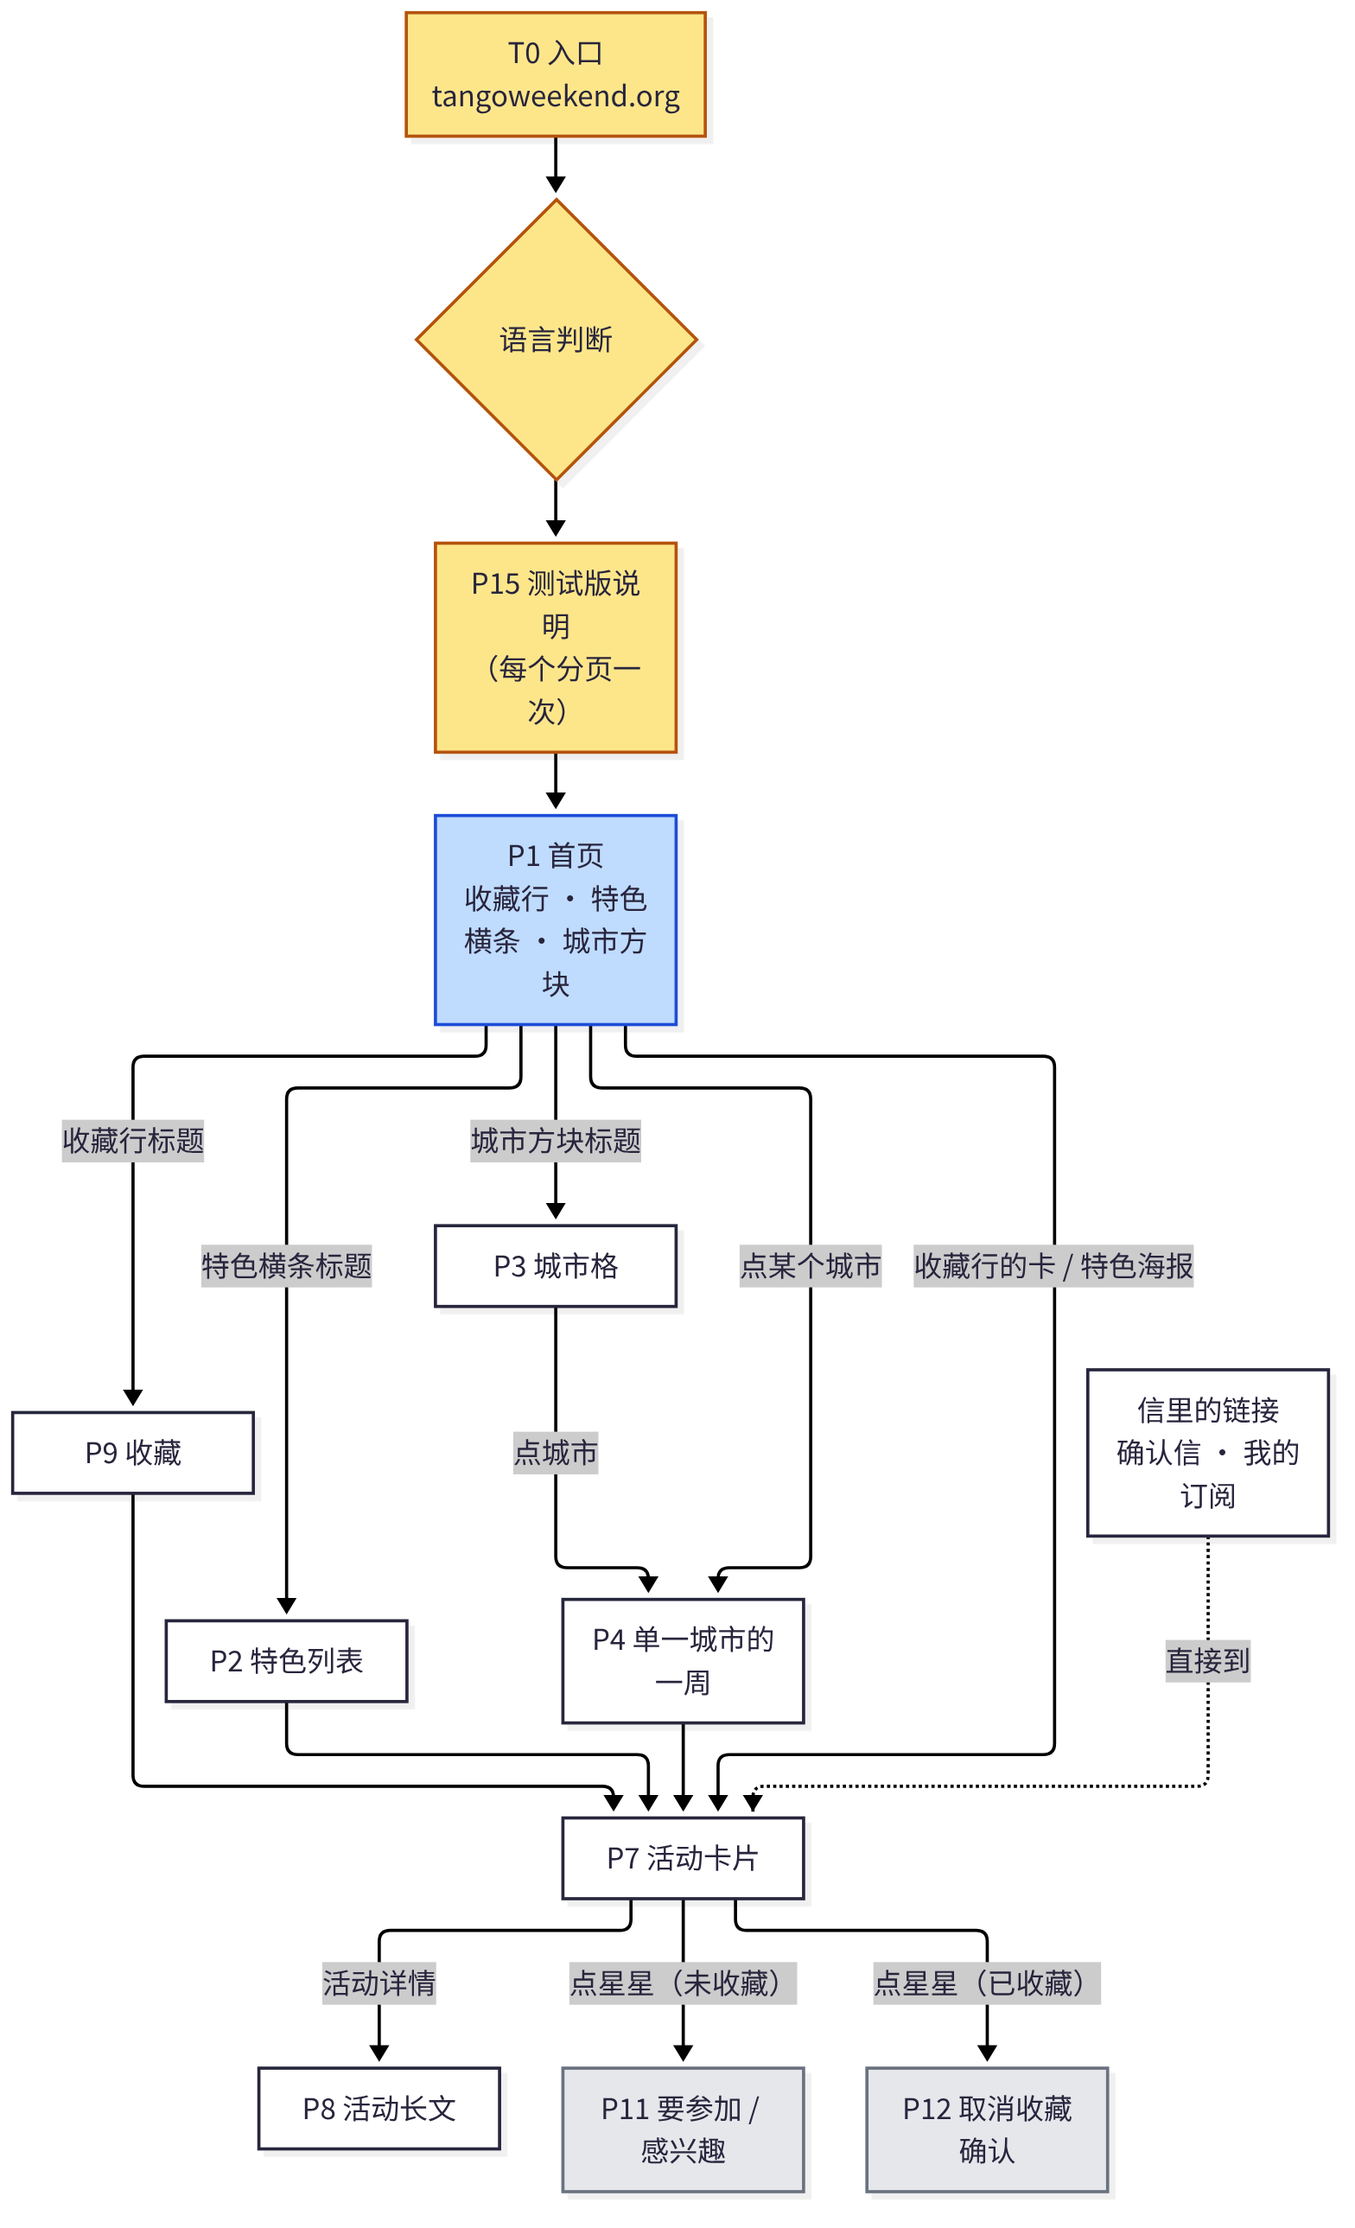
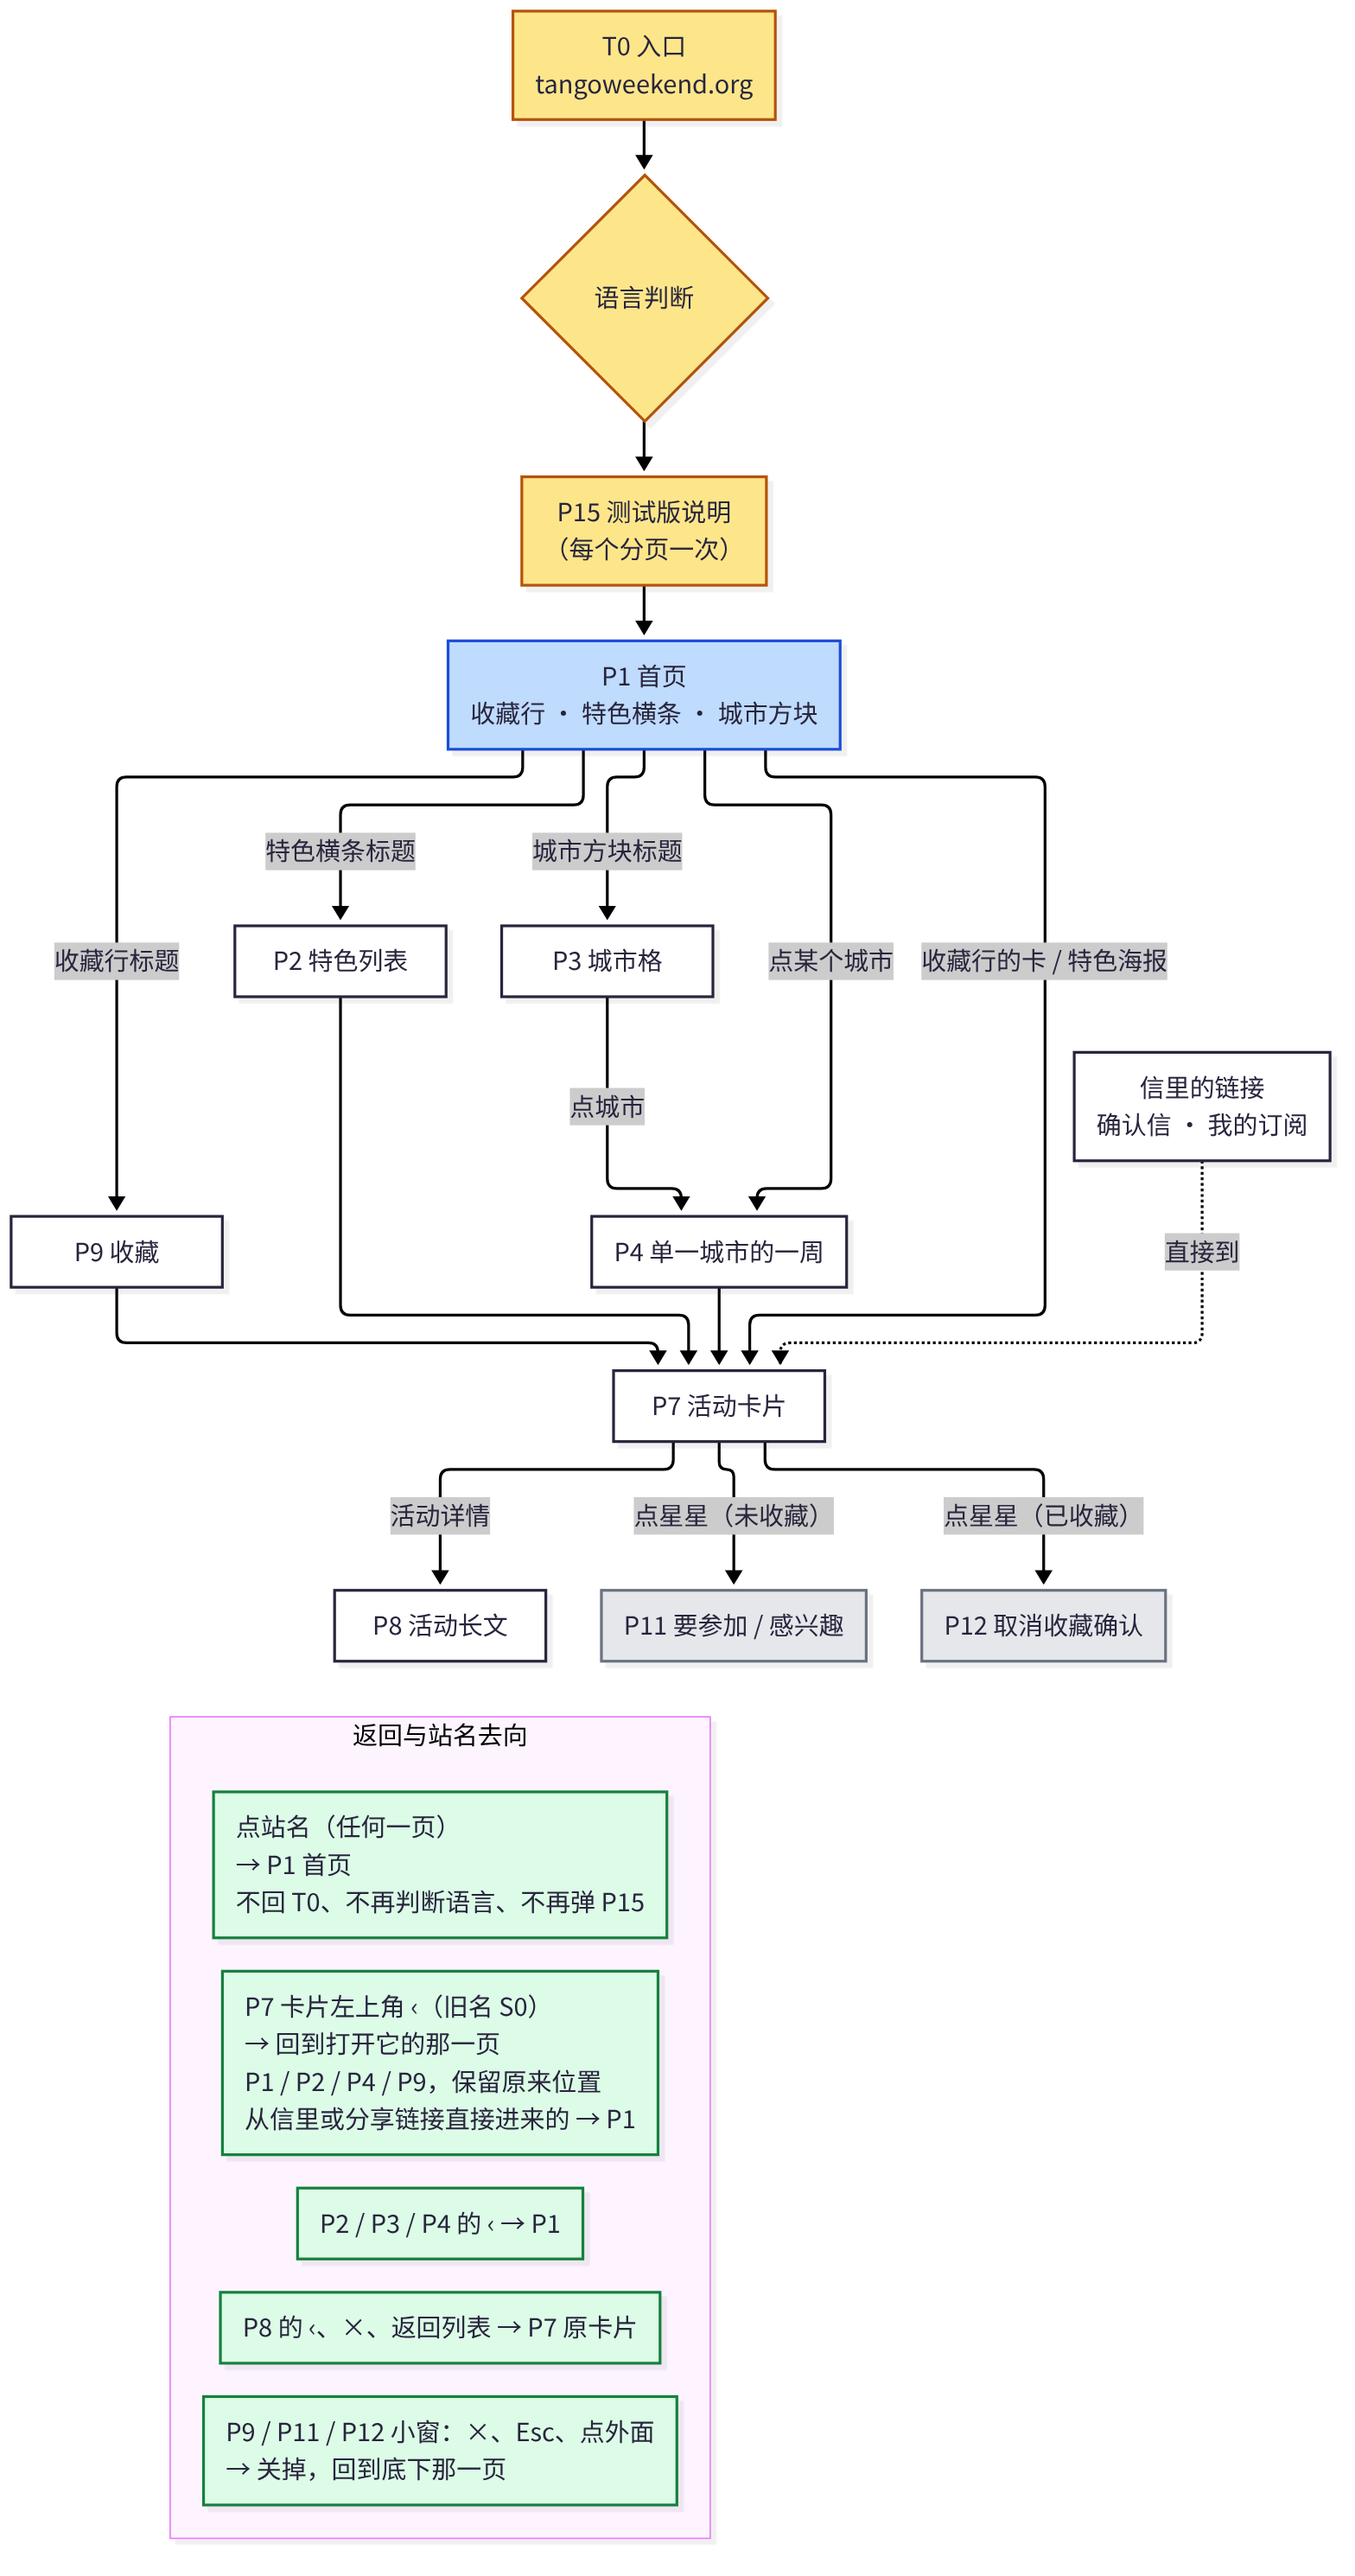
Show where the site title and the card back go.
The diagram and the return-rules section now include the site title, the old S0 control, and the sheet closes.

diff --git a/docs/atm-navigation-interaction-spec.md b/docs/atm-navigation-interaction-spec.md
@@ -184,15 +184,32 @@ flowchart TB
   P7 -->|点星星（未收藏）| P11["P11 要参加 / 感兴趣"]
   P7 -->|点星星（已收藏）| P12["P12 取消收藏确认"]
   M["信里的链接<br/>确认信 · 我的订阅"] -.->|直接到| P7
+  subgraph B["返回与站名去向"]
+    direction TB
+    B1["点站名（任何一页）<br/>→ P1 首页<br/>不回 T0、不再判断语言、不再弹 P15"]
+    B2["P7 卡片左上角 ‹（旧名 S0）<br/>→ 回到打开它的那一页<br/>P1 / P2 / P4 / P9，保留原来位置<br/>从信里或分享链接直接进来的 → P1"]
+    B3["P2 / P3 / P4 的 ‹ → P1"]
+    B4["P8 的 ‹、×、返回列表 → P7 原卡片"]
+    B5["P9 / P11 / P12 小窗：×、Esc、点外面<br/>→ 关掉，回到底下那一页"]
+    B1 ~~~ B2 ~~~ B3 ~~~ B4 ~~~ B5
+  end
+  P8 ~~~ B
   classDef entry fill:#fde68a,stroke:#b45309;
   classDef home fill:#bfdbfe,stroke:#1d4ed8;
   classDef sheet fill:#e5e7eb,stroke:#6b7280;
-  class T0,L,N entry; class P1 home; class P11,P12 sheet;
+  classDef back fill:#dcfce7,stroke:#15803d,text-align:left;
+  class T0,L,N entry; class P1 home; class P11,P12 sheet; class B1,B2,B3,B4,B5 back;
 ```
 
 ### 返回规则
 
-Back and close, on the same screens. Each page returns one level, and the last step is P1.
+Each page returns one level, and the last step is P1. These are the target rules for the site title and the backs drawn in the diagram.
+
+- Tapping the site title on any page goes to P1. It does not return to T0, it does not choose a language again, and it does not show P15 again.
+- The P7 ‹, formerly called S0, returns to the screen that opened the card (P1, P2, P4, or P9) and keeps that screen’s scroll. A card opened directly from a letter or a shared link goes to P1 on the language map.
+- The ‹ on P2, P3, and P4 goes to P1.
+- On P8, the ‹, the ×, and 返回列表 / Back to list all return to that same P7 card.
+- The P9, P11, and P12 sheets close with ×, Esc, or the backdrop, and the screen underneath stays where it was.
 
 ```mermaid
 flowchart LR
@@ -212,7 +229,7 @@ P5’s forward path is the search hash. It is not one of the three blocks on P1.
 These are the target rules. Where today’s code differs, the next section says so.
 
 1. T0 chooses the language, then P15 once per tab, then P1. P1 is the empty hash on the language map. P2–P5 are hashes on that same document. P6 and P7 are query URLs, because those links are already shared. P8 is its own document. A deep link (`?card=`, a confirmation letter, 我的订阅) skips the home and opens its own screen, with P15 shown once on that tab if it has not been dismissed.
-2. ‹ and the browser Back move one step. P2, P3, P4, and P5 return to P1. P7 returns to the screen that opened it (P1, P2, P4, P6, or P9), with that screen’s scroll. P8 returns to the P7 card it came from.
+2. ‹ and the browser Back move one step. The site title on any page goes to P1 and does not repeat T0, the language choice, or P15. P2, P3, P4, and P5 return to P1. The P7 ‹ returns to the screen that opened it (P1, P2, P4, or P9) and keeps that scroll. A card opened from a letter or a shared link goes to P1 on the language map. P8’s ‹, ×, and 返回列表 / Back to list return to that P7 card. P9, P11, and P12 close with ×, Esc, or the backdrop onto the screen underneath.
 3. A sheet that covers the page owns one history entry: P9, P10, P11, P12, P13, P14, P16, P17. ×, Esc, and the backdrop pop that entry. They do not add a second one. P15 is the exception: it is a gate, and only its button dismisses it.
 4. Language switch keeps the screen. P4 stays on the same city. P7 stays on the same `card`. P6 keeps `mode`, `city`, and the dates. The other language is only `/asia/` versus `/zh/asia/`.
 5. Secrets leave the address bar. `s` is stored and removed, as it is today. After `#p=` is stored, P10 opens so the person can see 我的订阅. `intent=resume` opens P7 and then P11.
